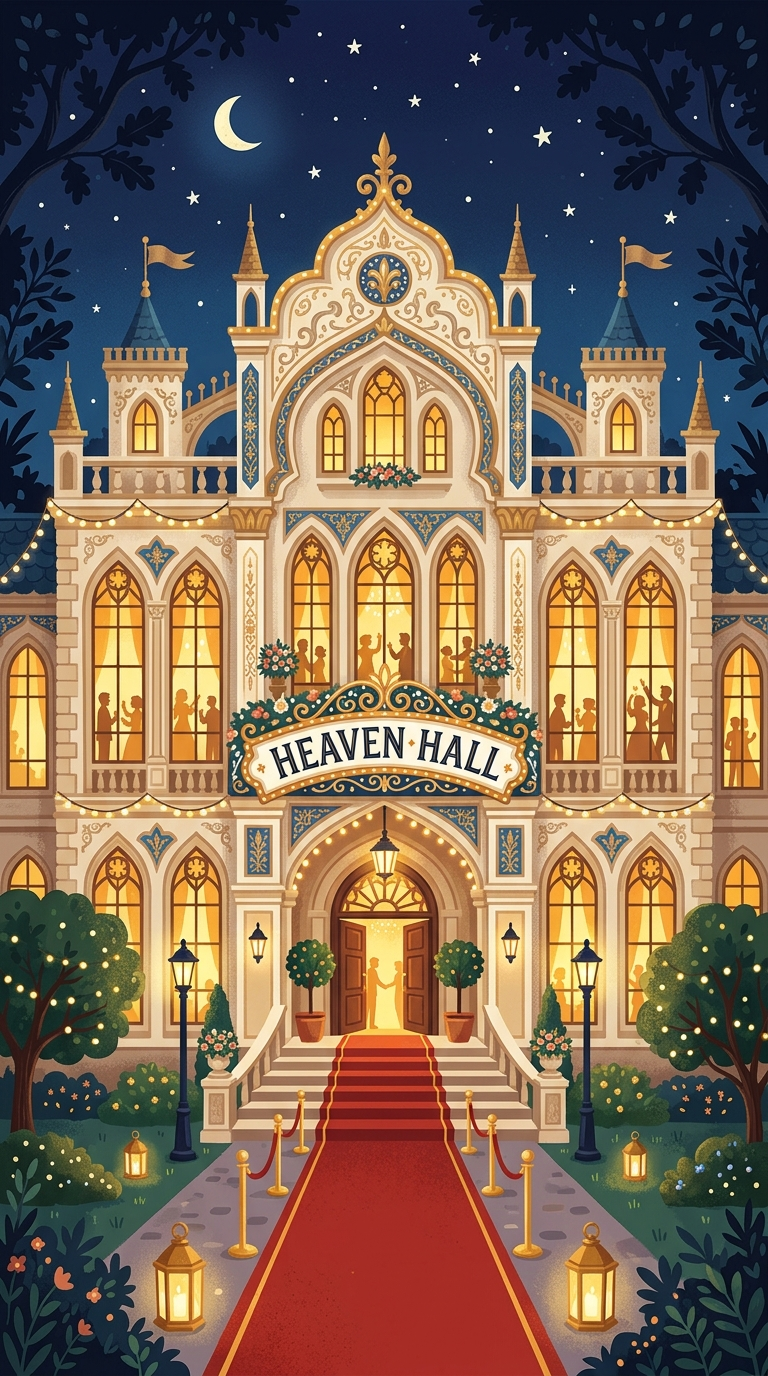
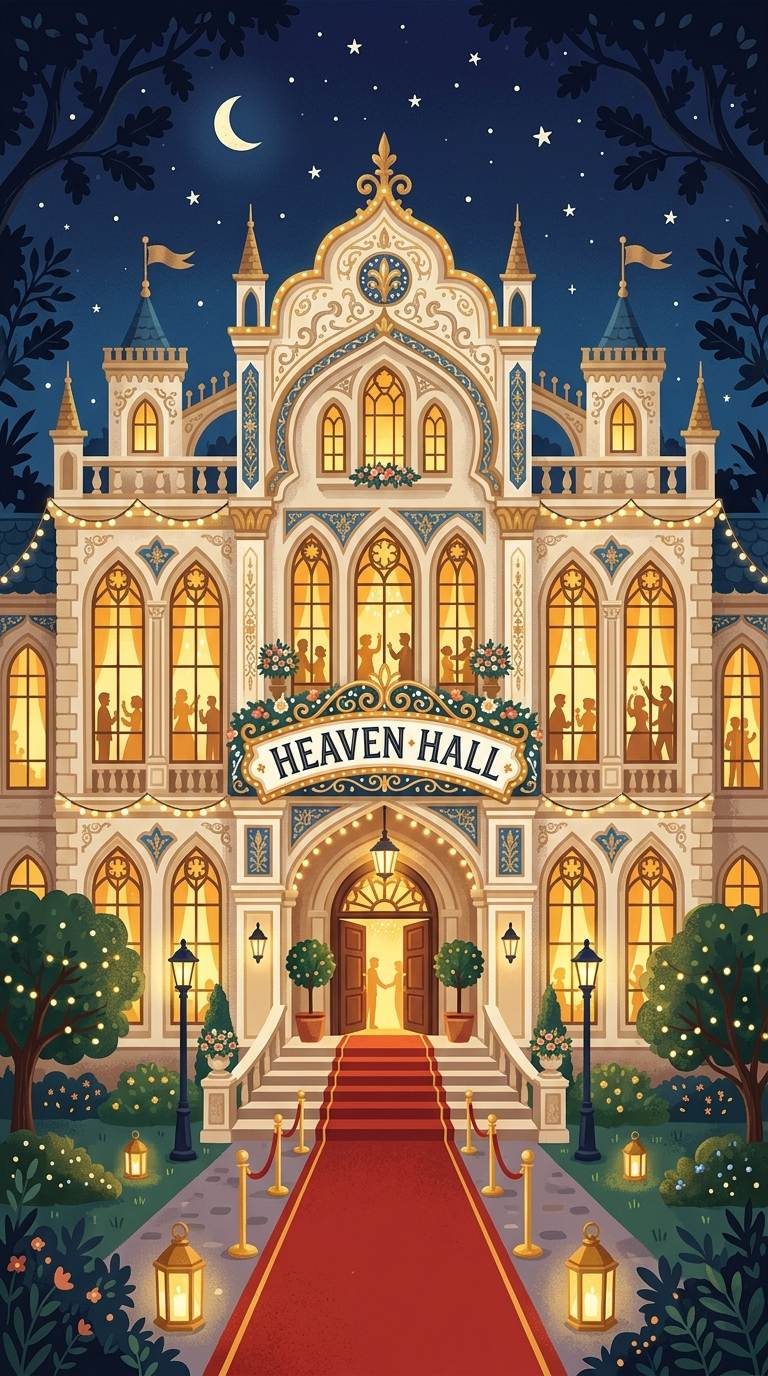
Performance: compress hall.jpg 985KB->192KB, add will-change GPU hints, lazy images, no preload audio

diff --git a/style.css b/style.css
@@ -96,11 +96,13 @@ body {
     background-size: cover; background-position: center;
     transform-origin: center bottom;
     z-index: 2; opacity: 0; transform: scale(1.1);
+    will-change: opacity, transform;
 }
 #palace-overlay {
     position: absolute; top: 0; left: 0; width: 100%; height: 100%;
     background: linear-gradient(to bottom, rgba(3,6,20,0.8), rgba(3,6,20,0.3), rgba(3,6,20,1));
     z-index: 3; opacity: 0;
+    will-change: opacity;
 }
 
 /* ── TEXTS ── */
@@ -113,12 +115,12 @@ body {
     text-align: center; width: 90%; z-index: 4; opacity: 0;
 }
 
-/* ── ORBS (Optimized: No heavy box-shadow or filter) ── */
 .orb {
     position: absolute; top: 50%; transform: translateY(-50%);
     width: 1px; height: 1px;
     z-index: 5; opacity: 0;
     display: flex; justify-content: center; align-items: center;
+    will-change: left, opacity, transform;
 }
 .orb::before {
     content: ''; position: absolute;
@@ -137,7 +139,7 @@ body {
     text-shadow: 0 5px 15px rgba(0,0,0,1), 0 0 20px rgba(0,0,0,0.8), 0 0 40px var(--gold);
     opacity: 1;
     white-space: nowrap;
-    font-weight: 400; /* Script fonts shouldn't be too bold */
+    font-weight: 400;
 }
 
 /* ── CINEMATIC FLASH (Optimized & Softer) ── */
@@ -146,6 +148,7 @@ body {
     width: 25vw; height: 25vw; border-radius: 50%;
     background: radial-gradient(circle, #FFFFFF 0%, rgba(212,175,55,0.4) 20%, transparent 60%);
     z-index: 6; opacity: 0;
+    will-change: opacity, transform;
 }
 /* Horizontal Lens Flare */
 #flash::after {
@@ -214,7 +217,7 @@ body {
 .profile-heart svg {
     width: clamp(22px, 5vw, 30px);
     height: clamp(22px, 5vw, 30px);
-    filter: drop-shadow(0 0 5px rgba(212, 175, 55, 0.5));
+    /* Removed filter:drop-shadow — too expensive on weak GPUs */
 }
 
 .card-event { font-family: var(--f-body); font-weight: 400; font-size: clamp(1rem, 4vw, 1.2rem); letter-spacing: 2px; color: #FFFFFF; margin-bottom: 25px; }

diff --git a/index.html b/index.html
@@ -16,8 +16,8 @@
 </head>
 <body>
 
-    <!-- Audio Player -->
-    <audio id="bg-music" loop preload="auto">
+    <!-- Audio Player — preload=none prevents blocking page load on weak devices -->
+    <audio id="bg-music" loop preload="none">
         <source src="assets/romantic.mp3" type="audio/mpeg">
     </audio>
     <button id="music-btn" class="music-btn" aria-label="Music">
@@ -64,7 +64,7 @@
             <div class="couple-profile" dir="ltr">
                 <!-- Safaa (Bride) -->
                 <div class="profile-col">
-                    <div class="c-photo"><img src="assets/safaa_real.jpg" alt="Safaa"></div>
+                    <div class="c-photo"><img src="assets/safaa_real.jpg" alt="Safaa" decoding="async"></div>
                     <div class="p-name">Safaa</div>
                 </div>
                 
@@ -75,7 +75,7 @@
 
                 <!-- Hamdy (Groom) -->
                 <div class="profile-col">
-                    <div class="c-photo"><img src="assets/hamdy_real.jpg" alt="Hamdy"></div>
+                    <div class="c-photo"><img src="assets/hamdy_real.jpg" alt="Hamdy" decoding="async"></div>
                     <div class="p-name">Hamdy</div>
                 </div>
             </div>
